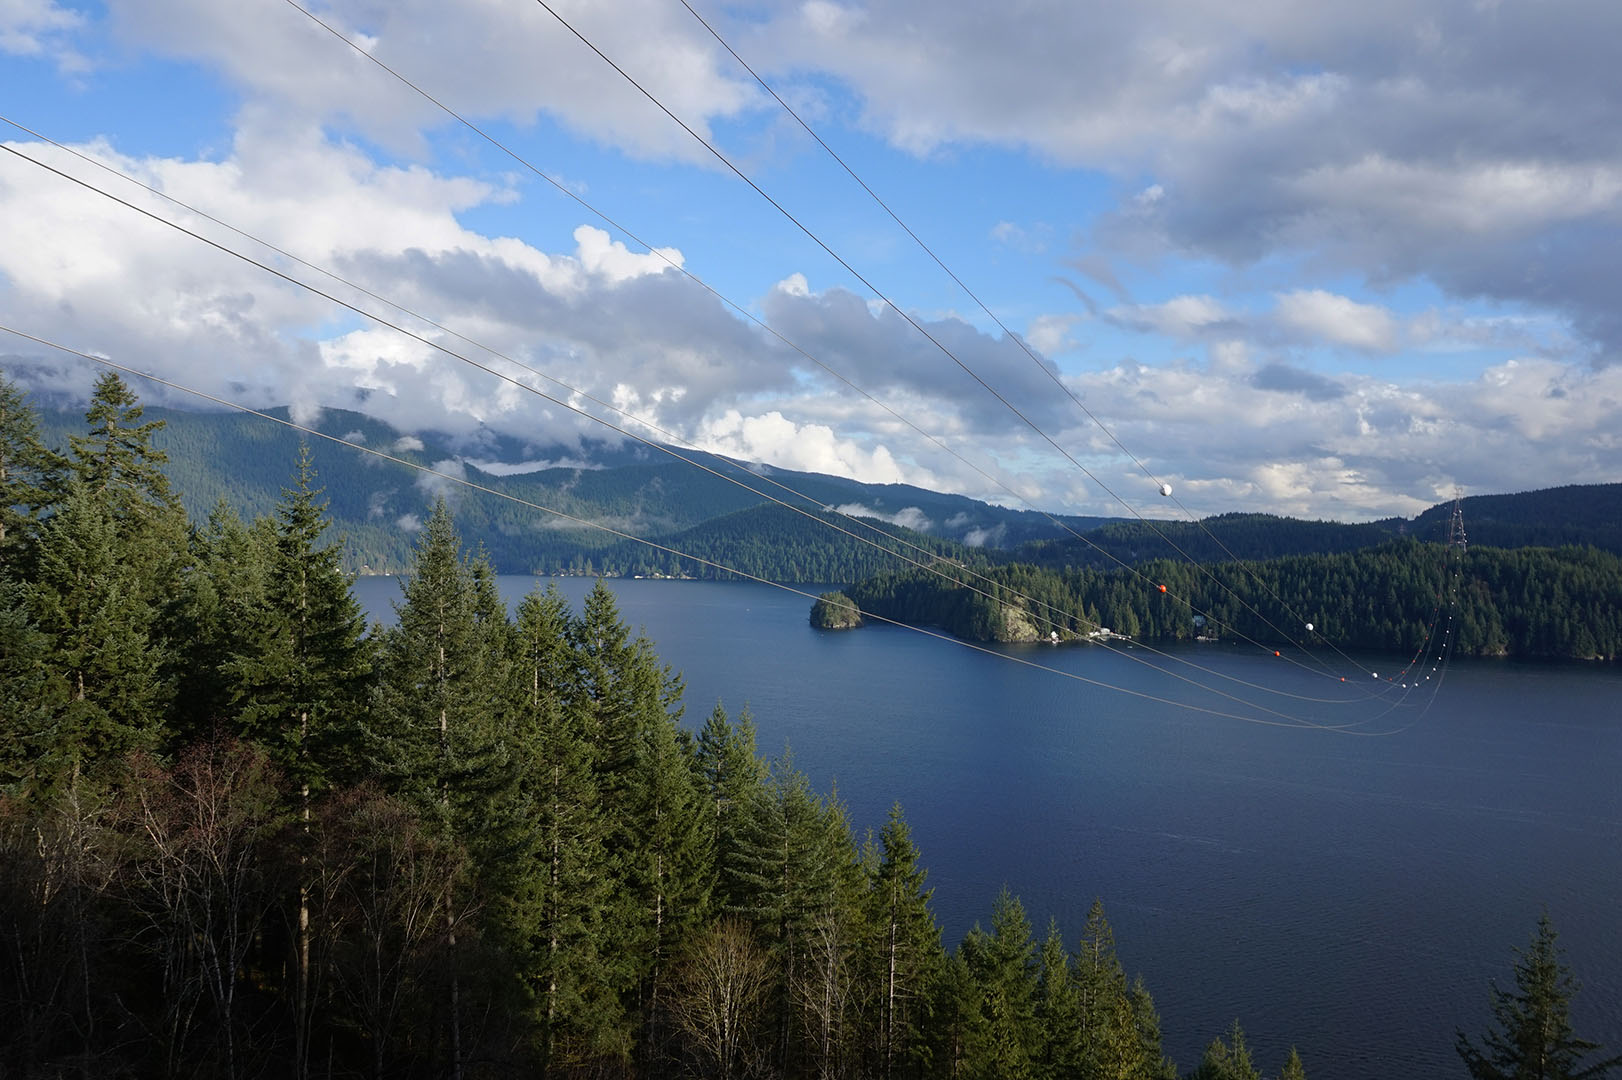
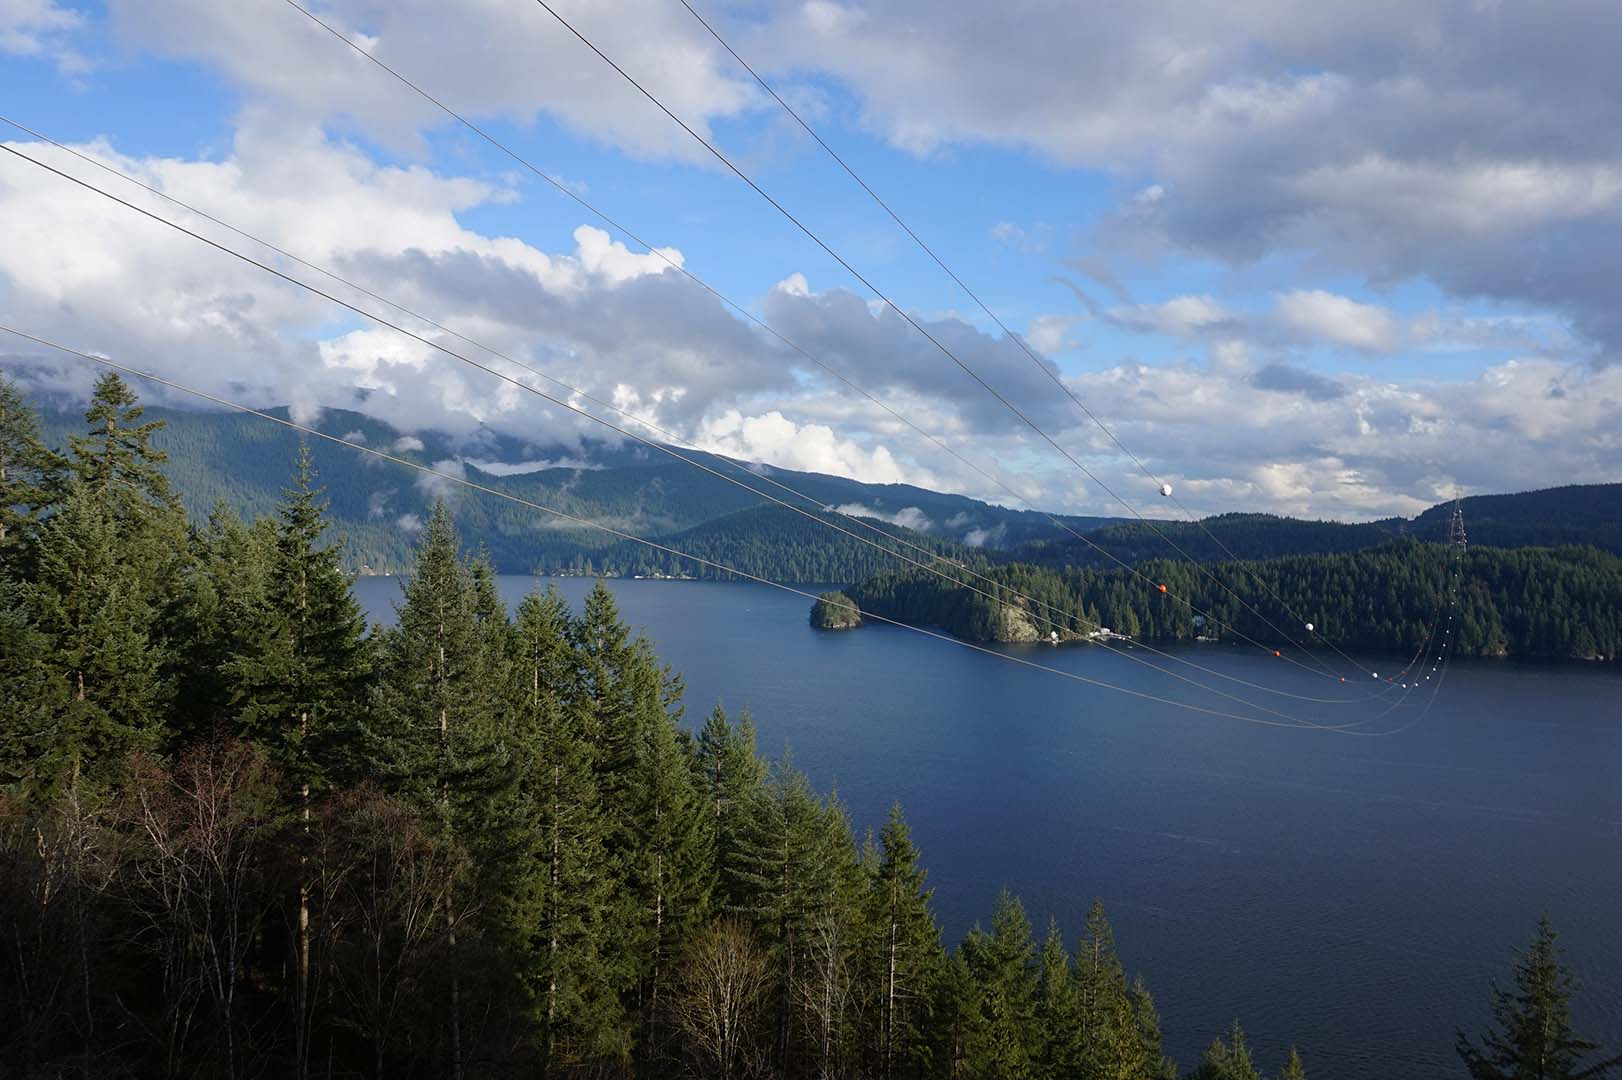
Compress images and change one image path

diff --git a/about.html b/about.html
@@ -37,7 +37,7 @@
     </header>
     <section class="container">
         <div class="single">
-            <img class="profile-pic" src="../images/profile_pic.jpg"/>
+            <img class="profile-pic" src="images/profile_pic.png"/>
             <div class="about-info">
                 <p>
                     Tammy is a <strong>programmer</strong> and <strong>designer</strong> working towards her future.
